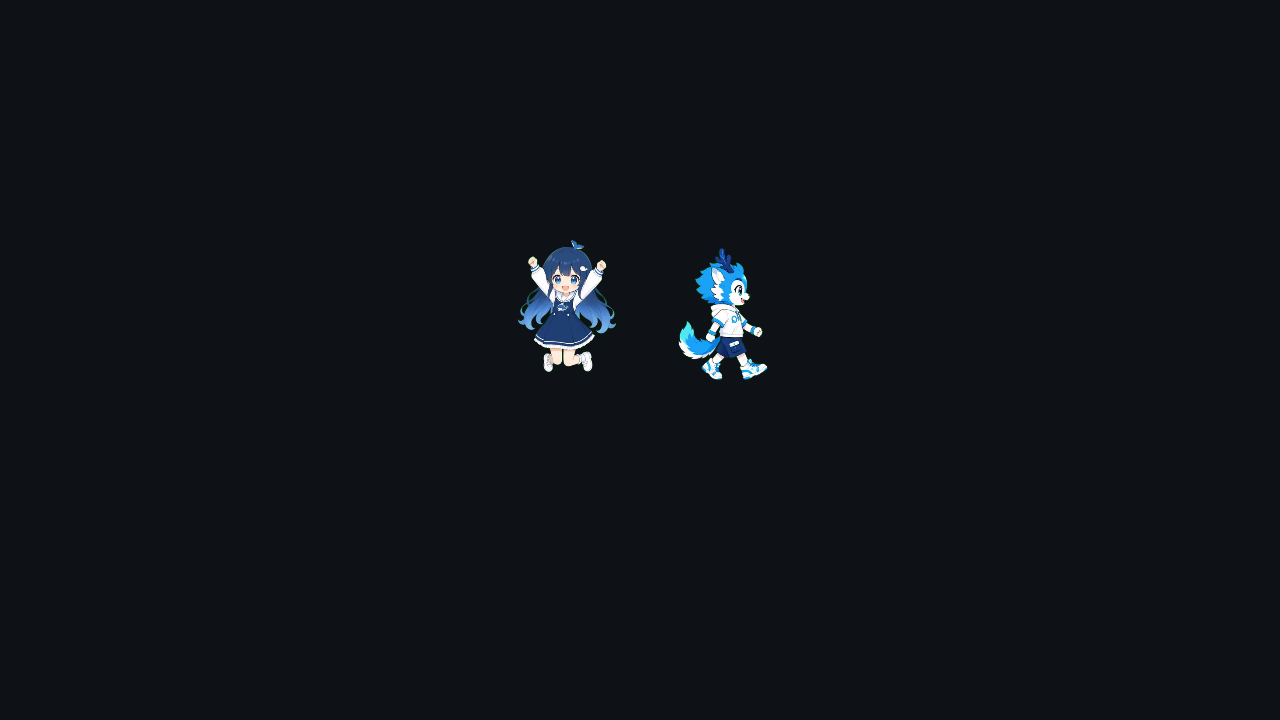
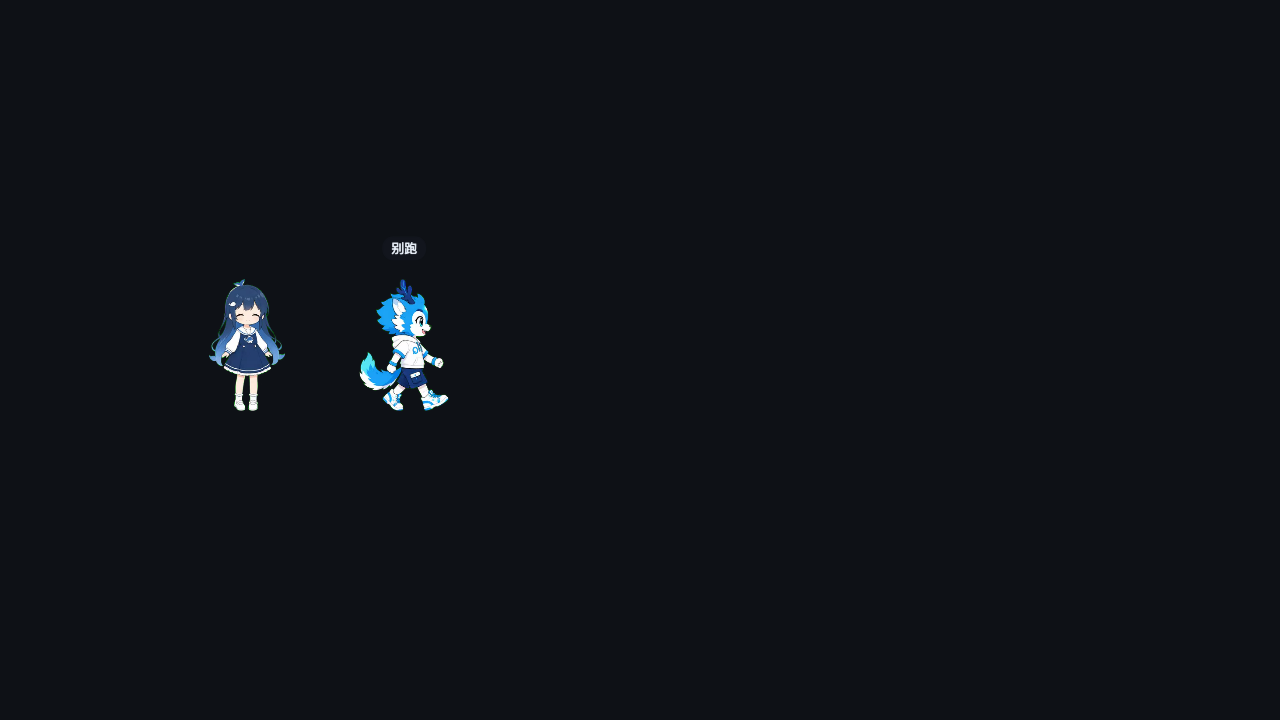
feat(director): Task5e 社交底分 0.6 + 修 happy 回归（无 who 的两只都播）—— 新装时走近之后真的会打招呼

diff --git a/src/stage/client.js b/src/stage/client.js
@@ -492,7 +492,11 @@ window.__ModuleLoader__.load({
     function socialScore(candidate, self, other, dist) {
       const W = TUNING.WEIGHT
       const bond = self.bond || { affinity: 0, familiarity: 0 }
-      let s = bond.affinity * W.affinity + bond.familiarity * W.familiarity
+      // **底分 0.6**：能走到这里的候选，门已经放行过（chooseIntent 只对 gate === null 的候选调本函数）。
+      // 所以「打分的候选」=「此刻做得到的事」—— 做得到的事不该比发呆（idle 0.4）更差。
+      // 没有它，affinity=0 时 8 个剧本全在 idle 之下 ⇒ 两只走近之后什么都不做，
+      // 而 greet 在 UNLOCK 里明明是 0 好感就解锁的 ——「解锁了但永远选不上」等于没解锁。
+      let s = 0.6 + bond.affinity * W.affinity + bond.familiarity * W.familiarity
       if (candidate === 'comfort') s += Math.max(0, -other.mood) * 1.2      // 对方越难过越想安慰
       if (candidate === 'tease') s += Math.max(0, self.energy - 0.5) * 1.0
       if (candidate === 'shoulder') s += Math.max(0, bond.affinity) * 0.02
@@ -687,8 +691,17 @@ window.__ModuleLoader__.load({
       /** 进入新阶段的一次性动作：播片 / 设朝向 / 放台词 / 起步。只在 sincePhase === 0 那一拍做。 */
       function enterPhase(spec, actorA, actorB, cur) {
         if (spec.clip) {
-          const target = actorFor(spec, actorA, actorB, cur)
-          if (target) target.play(spec.clip)
+          if (spec.who) {
+            // 声明了 who：动作**独占**给那一只（败者不该也一起乐）。
+            const target = actorFor(spec, actorA, actorB, cur)
+            if (target) target.play(spec.clip)
+          } else {
+            // 没声明 who：**逐字保留原行为** —— happy 阶段两只都播（spec §7「打招呼 → 各放 happy」）。
+            // ⚠ 这一行曾被改写时整段吞掉，导致 greet.exchange / gift.open / reconcile.exchange
+            // 从「两只都播」退化成「只有发起方播」。2026-10-11 由 Task 5b 子代理发现。
+            if (actorA) actorA.play(spec.clip)
+            if (actorB && spec.clip === 'happy') actorB.play(spec.clip)
+          }
         }
         if (spec.facing === 'toward' && actorA && actorB) actorA.setFacing(actorB.x < actorA.x ? -1 : 1)
         if (spec.say) {
